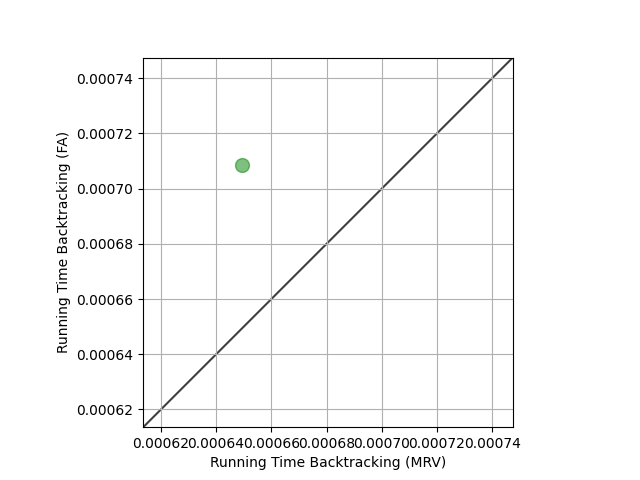
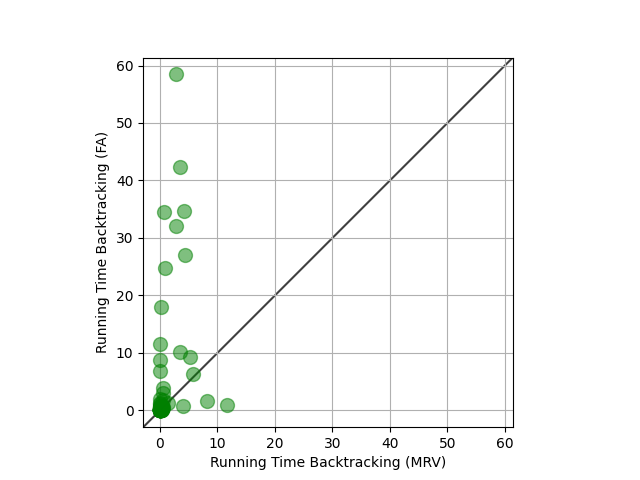
update 1 from mac

diff --git a/starter/test.py b/starter/test.py
@@ -173,6 +173,12 @@ class Grid:
                     return False
         return True
 
+        # for i in range(self._width):
+        #     for j in range(self._width):
+        #         if len(self._cells[i][j]) > 1 or not self.is_value_consistent(self._cells[i][j], i, j):
+        #             return False
+        # return True
+
     def is_value_consistent(self, value, row, column):
         for i in range(self.get_width()):
             if i == column: continue
@@ -216,8 +222,8 @@ class FirstAvailable(VarSelector):
         for i in range(grid.get_width()):
             for j in range(grid.get_width()):
                 if len(grid.get_cells()[i][j]) > 1:
-                    return i, j
-
+                    return (i,j)
+        return None
 
 class MRV(VarSelector):
     """
@@ -362,20 +368,20 @@ class AC3:
 
             variables_assigned, failure = self.remove_domain_column(grid, var[0], var[1])
             if failure:
-                return failure
+                return True
             queue.extend(variables_assigned)
 
             variables_assigned, failure = self.remove_domain_unit(grid, var[0], var[1])
             if failure:
-                return failure
+                return True
             queue.extend(variables_assigned)
 
             variables_assigned, failure = self.remove_domain_row(grid, var[0], var[1])
             if failure:
-                return failure
+                return True
             queue.extend(variables_assigned)
 
-        return True
+        return False
 
 
 class Backtracking:
@@ -388,29 +394,36 @@ class Backtracking:
         Implements backtracking search with inference.
         """
         if grid.is_solved():
+            print("Puzzle Solved")
             return grid
+
         if var_selector == "MRV":
             var = MRV().select_variable(grid)
         else:
             var = FirstAvailable().select_variable(grid)
-        # print(var)
+        # if var == None:
+        #     return False
+        # print("This is the grid:")
+        # grid.print()
         for d in grid.get_cells()[var[0]][var[1]]:
             if grid.is_value_consistent(d, var[0], var[1]):
                 copy_g = grid.copy()
                 copy_g.get_cells()[var[0]][var[1]] = d
+
                 # copy_g.print()
+                # copy_g.print_domains()
                 ri = AC3().consistency(copy_g, var)
-                if ri:
-                    rb = self.search(copy_g, "MRV")
+                if not ri:
+                    if var_selector == "MRV":
+                        rb = self.search(copy_g, "MRV")
+                    else:
+                        rb = self.search(copy_g, "FA")
                     if rb:
                         return rb
         return False
 
-
-#
-
-file = open('test.txt', 'r')
-# file = open('top95.txt', 'r')
+#file = open('tutorial_problem.txt', 'r')
+file = open('top95.txt', 'r')
 problems = file.readlines()
 fa_list = []
 mrv_list = []
@@ -429,25 +442,31 @@ for p in problems:
     g.print_domains()
     print()
 
-    #
-    # t_start = time.perf_counter()
-    # g.print_domains()
-    # Backtracking().search(g, "FA")
-    # t_stop = time.perf_counter()
-    # rt_fa = t_stop - t_start
-    # fa_list.append(rt_fa)
-    # print("fa done in %f second" % rt_fa)
+
+    t_start = time.perf_counter()
+    g.print_domains()
+    AC3().pre_process_consistency(g)
+    print('Domains of Variables')
+    g.print_domains()
+    print()
+    fa_grid = Backtracking().search(g, "FA")
+    # fa_grid.print()
+    t_stop = time.perf_counter()
+    rt_fa = t_stop - t_start
+    fa_list.append(rt_fa)
+    print("fa done in %f second" % rt_fa)
 
     # Backtracking test with First available method variable selection with forward checking
     t_start = time.perf_counter()
-    AC3().pre_process_consistency(g)
-    Backtracking().search(g, "MRV")
+    # AC3().pre_process_consistency(g)
+    mrv_grid = Backtracking().search(g, "MRV")
+    # mrv_grid.print()
     t_stop = time.perf_counter()
     rt_mrv = t_stop - t_start
     mrv_list.append(rt_mrv)
     print("mrv done in %f second" % rt_mrv)
 print(mrv_list)
 print(fa_list)
-# plotter = PlotResults()
-# plotter.plot_results(mrv_list, fa_list, "Running Time Backtracking (MRV)", "Running Time Backtracking (FA)",
-#                      "running_time")
+plotter = PlotResults()
+plotter.plot_results(mrv_list, fa_list, "Running Time Backtracking (MRV)", "Running Time Backtracking (FA)",
+                     "running_time")
